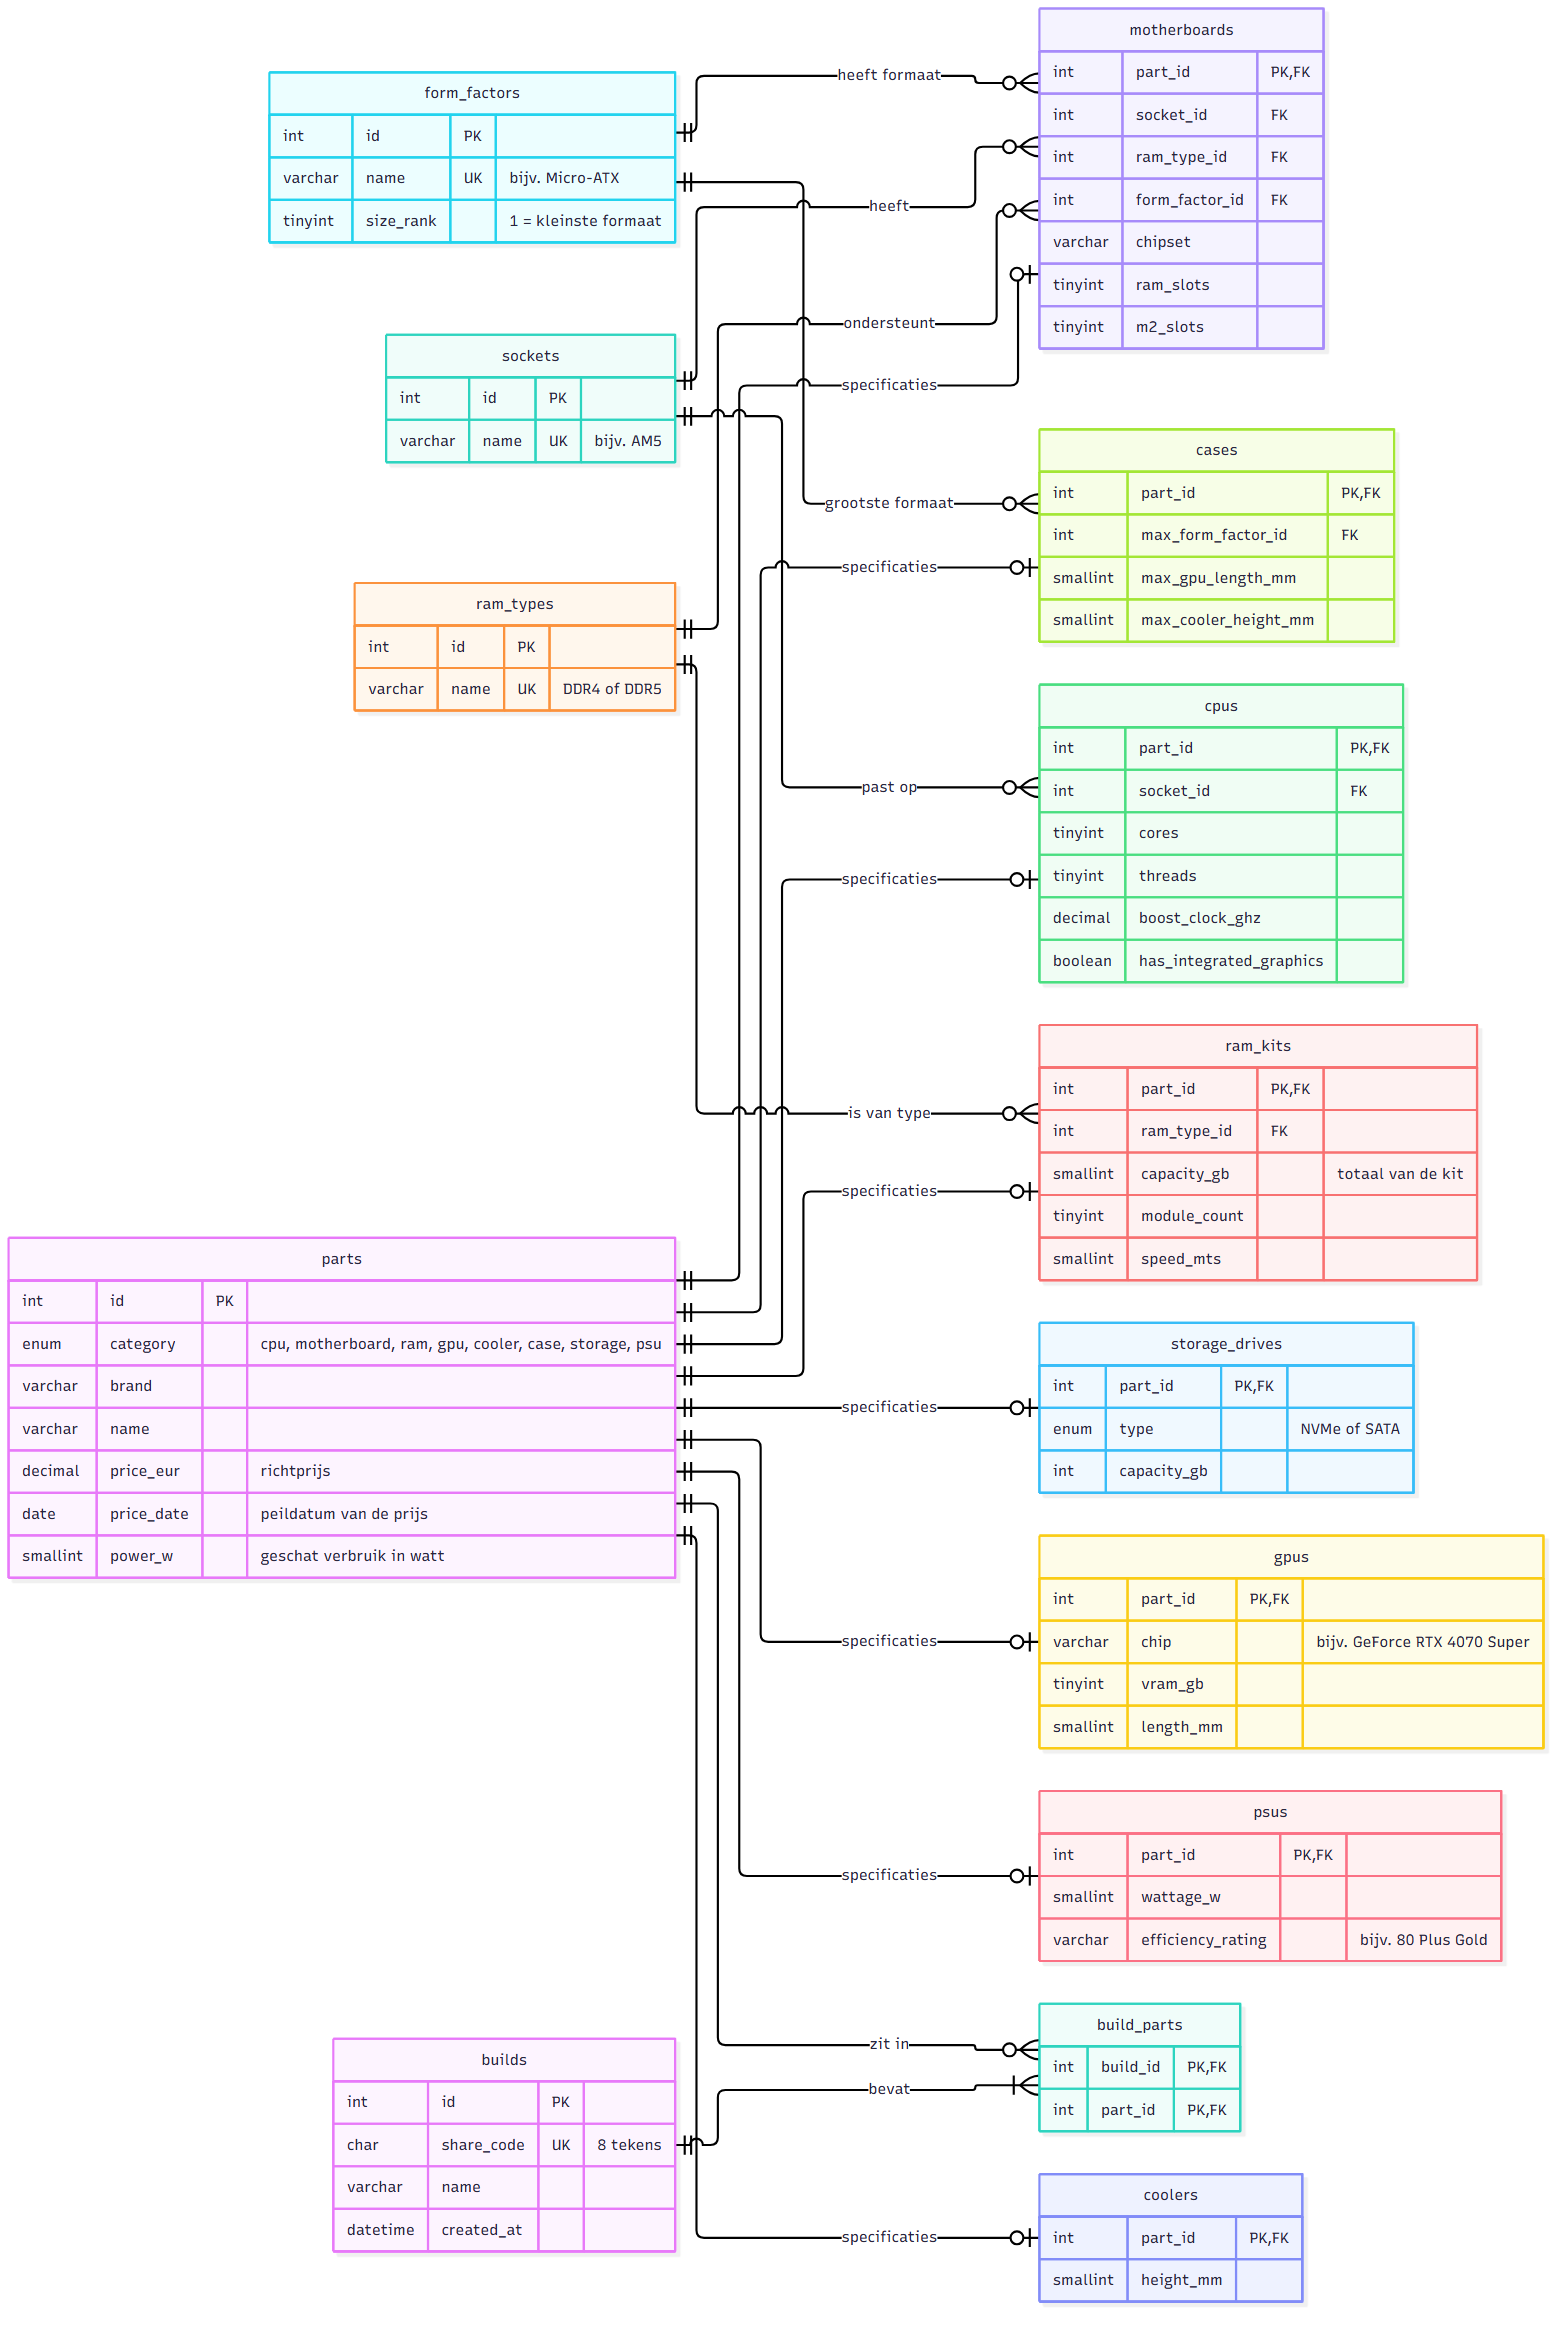
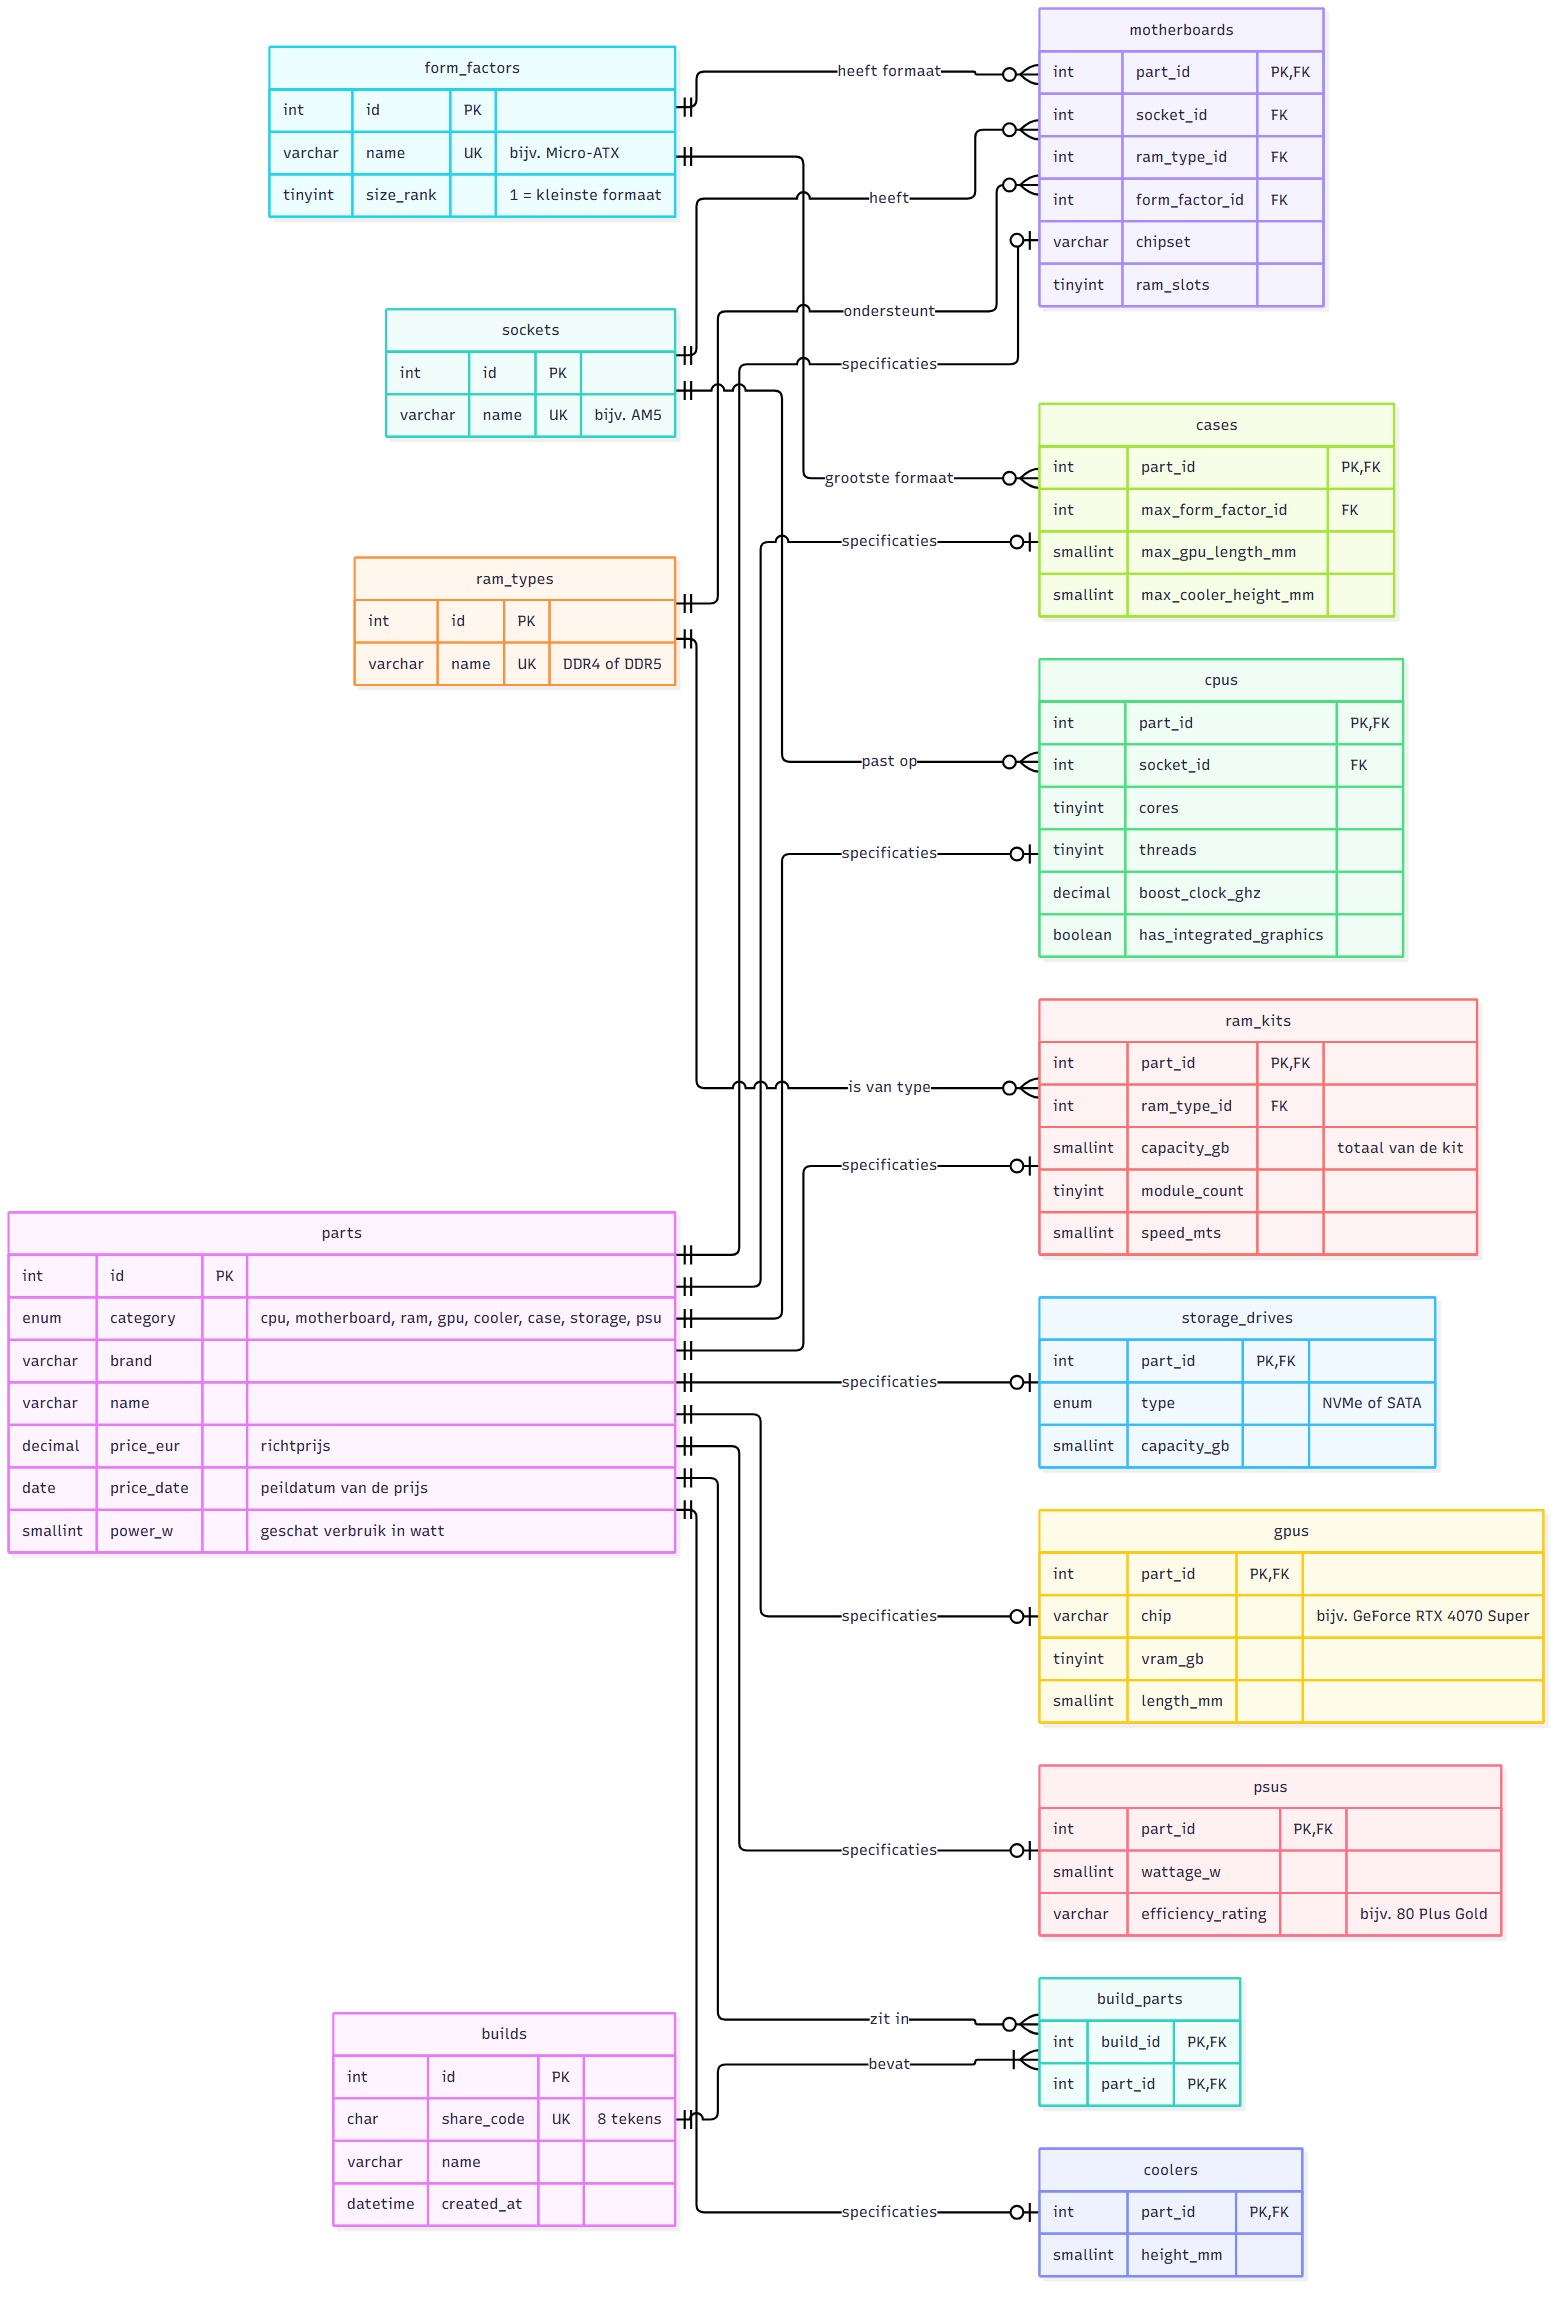
docs: M.2-sloten uit het ontwerp gehaald

diff --git a/docs/ontwerp.md b/docs/ontwerp.md
@@ -30,8 +30,9 @@ flowchart TB
 | Logica | `src/Compatibility/`, `src/Recommendation/` | Compatibiliteitsregels en de aanbeveling. Deze code kent geen database en geen HTML, daardoor is hij goed te testen. |
 | Model | `src/Model/` | Klassen voor onderdelen en een build. |
 | Data | `src/Repository/` | Query's naar de database met PDO en prepared statements. |
+| Databaseverbinding | `src/Database/` | `Connection` maakt de PDO-verbinding, `Seeder` vult de database. |
 | Weergave | `templates/` | PHP-templates die de HTML maken. |
-| Database | `database/` | `schema.sql` met de tabellen en `seed.php` met de onderdelen. |
+| Database | `database/` | `schema.sql` met de tabellen, `seed.php` om de database te vullen en in `data/` de onderdelen zelf. |
 | Configuratie | `config/`, `.env` | Databasegegevens, voedingsmarge en budgetverdeling. |
 | Tests | `tests/Unit/`, `tests/Api/` | PHPUnit-tests. |
 
@@ -126,7 +127,6 @@ erDiagram
         int form_factor_id FK
         varchar chipset
         tinyint ram_slots
-        tinyint m2_slots
     }
     ram_kits {
         int part_id PK, FK
@@ -154,7 +154,7 @@ erDiagram
     storage_drives {
         int part_id PK, FK
         enum type "NVMe of SATA"
-        int capacity_gb
+        smallint capacity_gb
     }
     psus {
         int part_id PK, FK
@@ -196,6 +196,7 @@ Toelichting:
 - **Formaat** heeft een `size_rank`: Mini-ITX = 1, Micro-ATX = 2, ATX = 3, E-ATX = 4. Een kast slaat alleen het grootste formaat op dat erin past. Een moederbord past als zijn `size_rank` kleiner of gelijk is aan die van de kast.
 - **Verbruik** (`power_w`) staat bij elk onderdeel. Voor processors en videokaarten is dat het maximale vermogen volgens de fabrikant, voor de andere categorieën een vaste schatting. Zie [keuzes.md](keuzes.md).
 - **Build en onderdelen** is een veel-op-veel-relatie via `build_parts`. Dat er per categorie maar één onderdeel in een build zit, controleert de code bij het opslaan.
+- **Geen M.2-sloten:** in de eerste versie van het ontwerp had een moederbord ook `m2_slots`. Dat veld is eruit gehaald, omdat geen enkele regel het gebruikt en ik het aantal per moederbord niet zeker wist.
 
 ## 4. Klassendiagram
 
@@ -241,7 +242,6 @@ classDiagram
         +FormFactor formFactor
         +string chipset
         +int ramSlots
-        +int m2Slots
     }
     class RamKit {
         +string ramType
